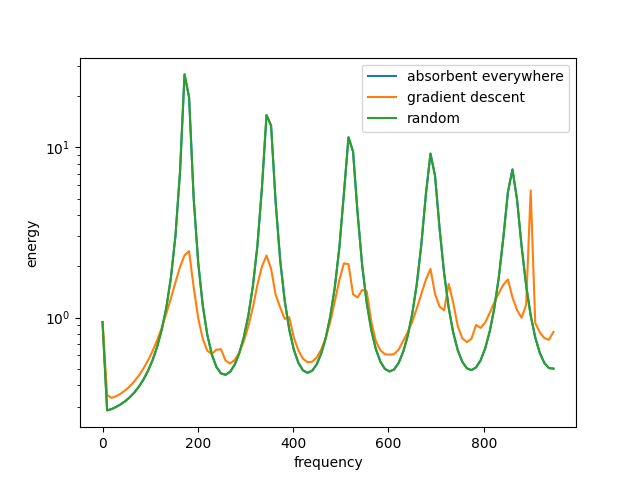
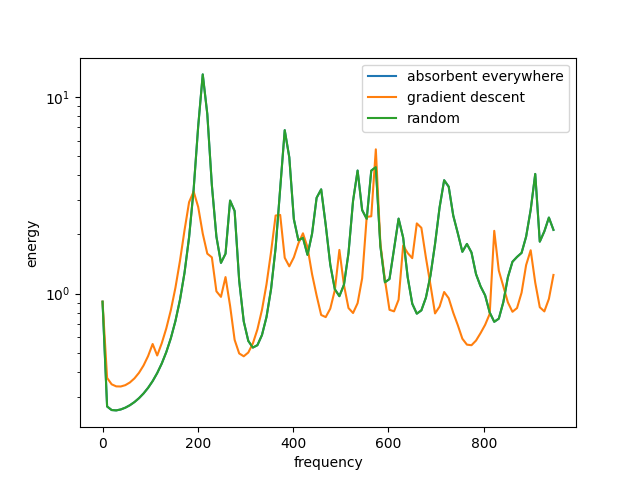
bug fix

diff --git a/demo_control_polycopie2023.py b/demo_control_polycopie2023.py
@@ -251,7 +251,7 @@ if __name__ == '__main__':
     # -- set parameters of the geometry
     N = 50  # number of points along x-axis
     M = 2 * N  # number of points along y-axis
-    level = 2 # level of the fractal
+    level = 0 # level of the fractal
     spacestep = 1.0 / N  # mesh size
 
     # -- set parameters of the partial differential equation
@@ -364,7 +364,7 @@ if __name__ == '__main__':
         _u_rand = processing.solve_helmholtz(domain_omega, spacestep, _k, f, f_dir, f_neu, f_rob,
                         beta_pde, alpha_pde, alpha_dir, beta_neu, beta_rob, _chi_rand.copy()*_alpha)
         _e_rand = compute_objective_function(domain_omega, _u_rand, spacestep)
-        _E_rand.append(_e)
+        _E_rand.append(_e_rand)
         
         
     plt.figure()
